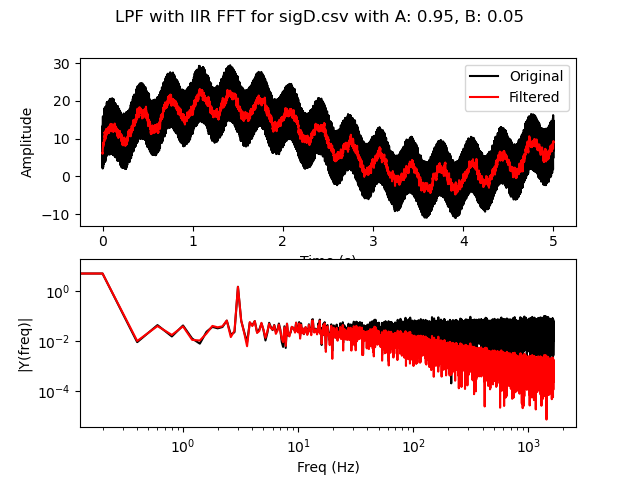
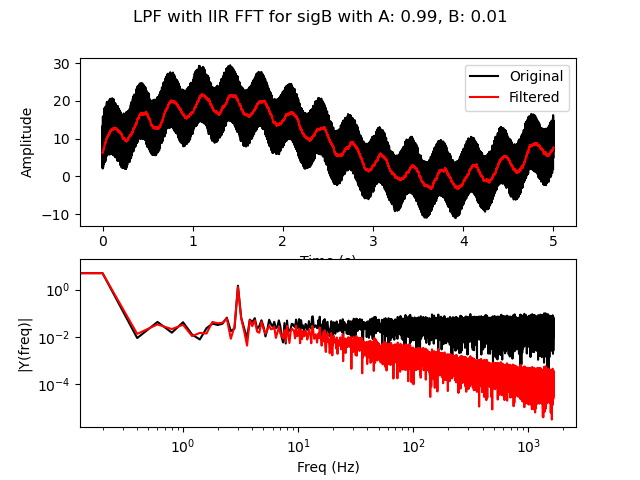
hw 9 complete

diff --git a/HW9/hw9_dsp.py b/HW9/hw9_dsp.py
@@ -19,11 +19,39 @@ for filename in files:
     
     key = filename.replace('.csv', '')
     sample_rate = len(t) / t[-1]
+    # print(sample_rate)
     data[key] = {'t': t, 's': s, 'sr': sample_rate}
 
-x = 50
-weight_a = 0.95 # higher for noisy data but takes longer
+x = 500
+weight_a = 0.99 # higher for noisy data but takes longer
 weight_b = 1 - weight_a
+
+def get_fir_weights(cutoff, fs, num_taps):
+    f_c = cutoff / fs
+    n = np.arange(num_taps)
+    h = np.sinc(2 * f_c * (n - (num_taps - 1) / 2))
+    h *= np.blackman(num_taps)
+    return h / np.sum(h)
+
+h_a = get_fir_weights(4, 10000, 401)
+h_b = get_fir_weights(10, 3300, 151)
+h_c = get_fir_weights(1, 2500, 1001)
+h_d = get_fir_weights(2, 400, 151)
+
+fir_weights = {
+    'sigA': h_a,
+    'sigB': h_b,
+    'sigC': h_c,
+    'sigD': h_d
+}
+
+# 2. LABELS FOR THE TITLE
+filter_info = {
+    'sigA': {'cutoff': 10,  'bw': '2Hz'},
+    'sigB': {'cutoff': 100, 'bw': '50Hz'},
+    'sigC': {'cutoff': 1,   'bw': '1Hz'},
+    'sigD': {'cutoff': 10,  'bw': '5Hz'}
+}
 
 for key in data:
     t = data[key]['t']
@@ -43,11 +71,35 @@ for key in data:
     #     new_data_list.append(avg)
 
     # LFP with IIR
-    current_avg = s[0]
-    new_data_list.append(current_avg)
-    for i in range(1, len(s)):
-        current_avg = weight_a * current_avg + weight_b * s[i]
-        new_data_list.append(current_avg)
+    # current_avg = s[0]
+    # new_data_list.append(current_avg)
+    # for i in range(1, len(s)):
+    #     current_avg = weight_a * current_avg + weight_b * s[i]
+    #     new_data_list.append(current_avg)
+
+    # FIR
+    current_h = fir_weights[key]
+    cutoff = filter_info[key]['cutoff']
+    bw = filter_info[key]['bw']
+    
+    weight_len = len(current_h)
+
+    filtered_out = np.array(s)
+    for i in range(weight_len, len(s)):
+        group = s[i - weight_len + 1 : i + 1]
+        filtered_out[i] = np.dot(group[::-1], current_h)
+    new_data_list = filtered_out
+
+        # if i < weight_len:
+        #     new_data_list.append(s[i])
+        # else:
+        #     group = s[i - weight_len + 1 : i + 1]
+        #     filtered = 0
+
+        #     for j in range(weight_len):
+        #         filtered += group[-(j + 1)] * current_h[j]
+            
+        #     new_data_list.append(filtered)
 
     # FFT on filtered signal
     Ts = 1.0/Fs; # sampling interval
@@ -66,9 +118,9 @@ for key in data:
     Y_unfiltered = Y_unfiltered[range(int(n/2))]
 
     fig, (ax1, ax2) = plt.subplots(2, 1)
-    # fig.suptitle(f'MAF FFT for {filename} with {x} Averaged Datapoints')
-    # fig.suptitle(f'LPF with IIR FFT for {filename} with A: {weight_a:.2f}, B: {weight_b:.2f}')
-    fig.suptitle(f'FIR FFT for {filename} with A: {weight_a:.2f}, B: {weight_b:.2f}')
+    # fig.suptitle(f'MAF FFT for {key} with {x} Averaged Datapoints')
+    # fig.suptitle(f'LPF with IIR FFT for {key} with A: {weight_a:.2f}, B: {weight_b:.2f}')
+    fig.suptitle(f'FIR FFT for {key} (# of Weights: {len(current_h)}), LPF, cutoff: {cutoff}Hz, bandwidth: {bw}')
     ax1.plot(t,s,'k',label='Original')
     ax1.plot(t,new_data_list,'r', label='Filtered')
     ax1.set_xlabel('Time (s)')
